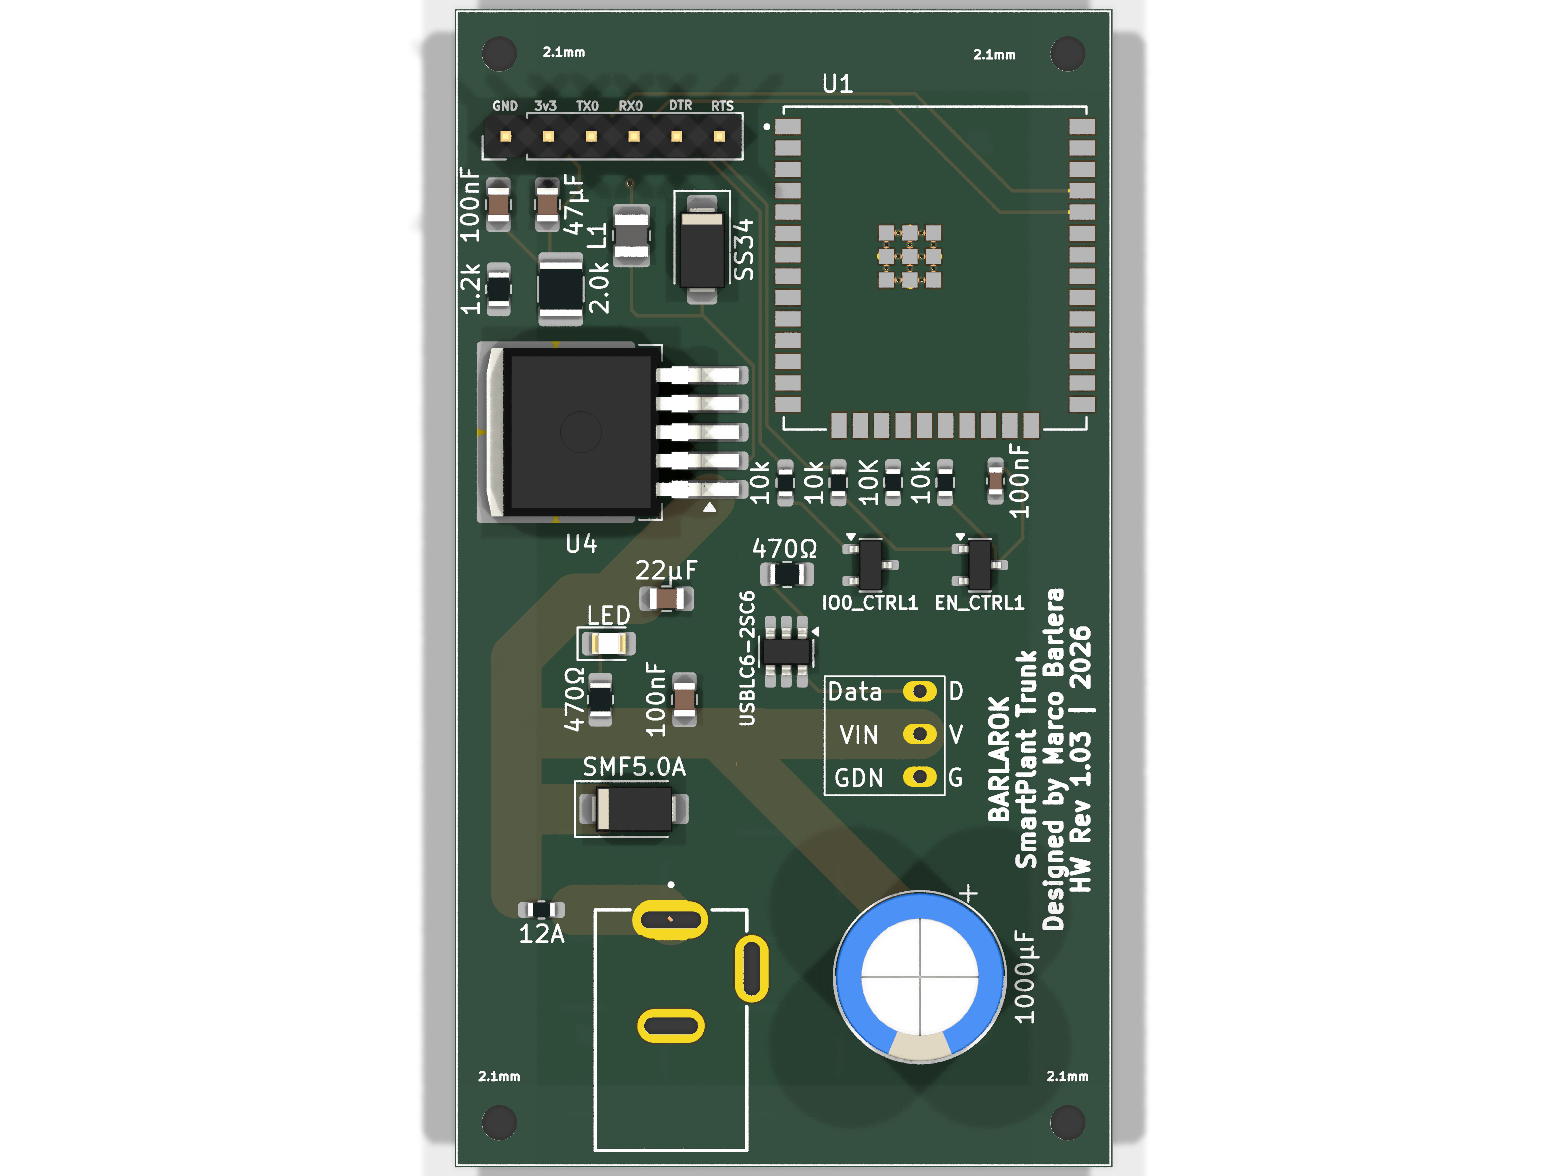
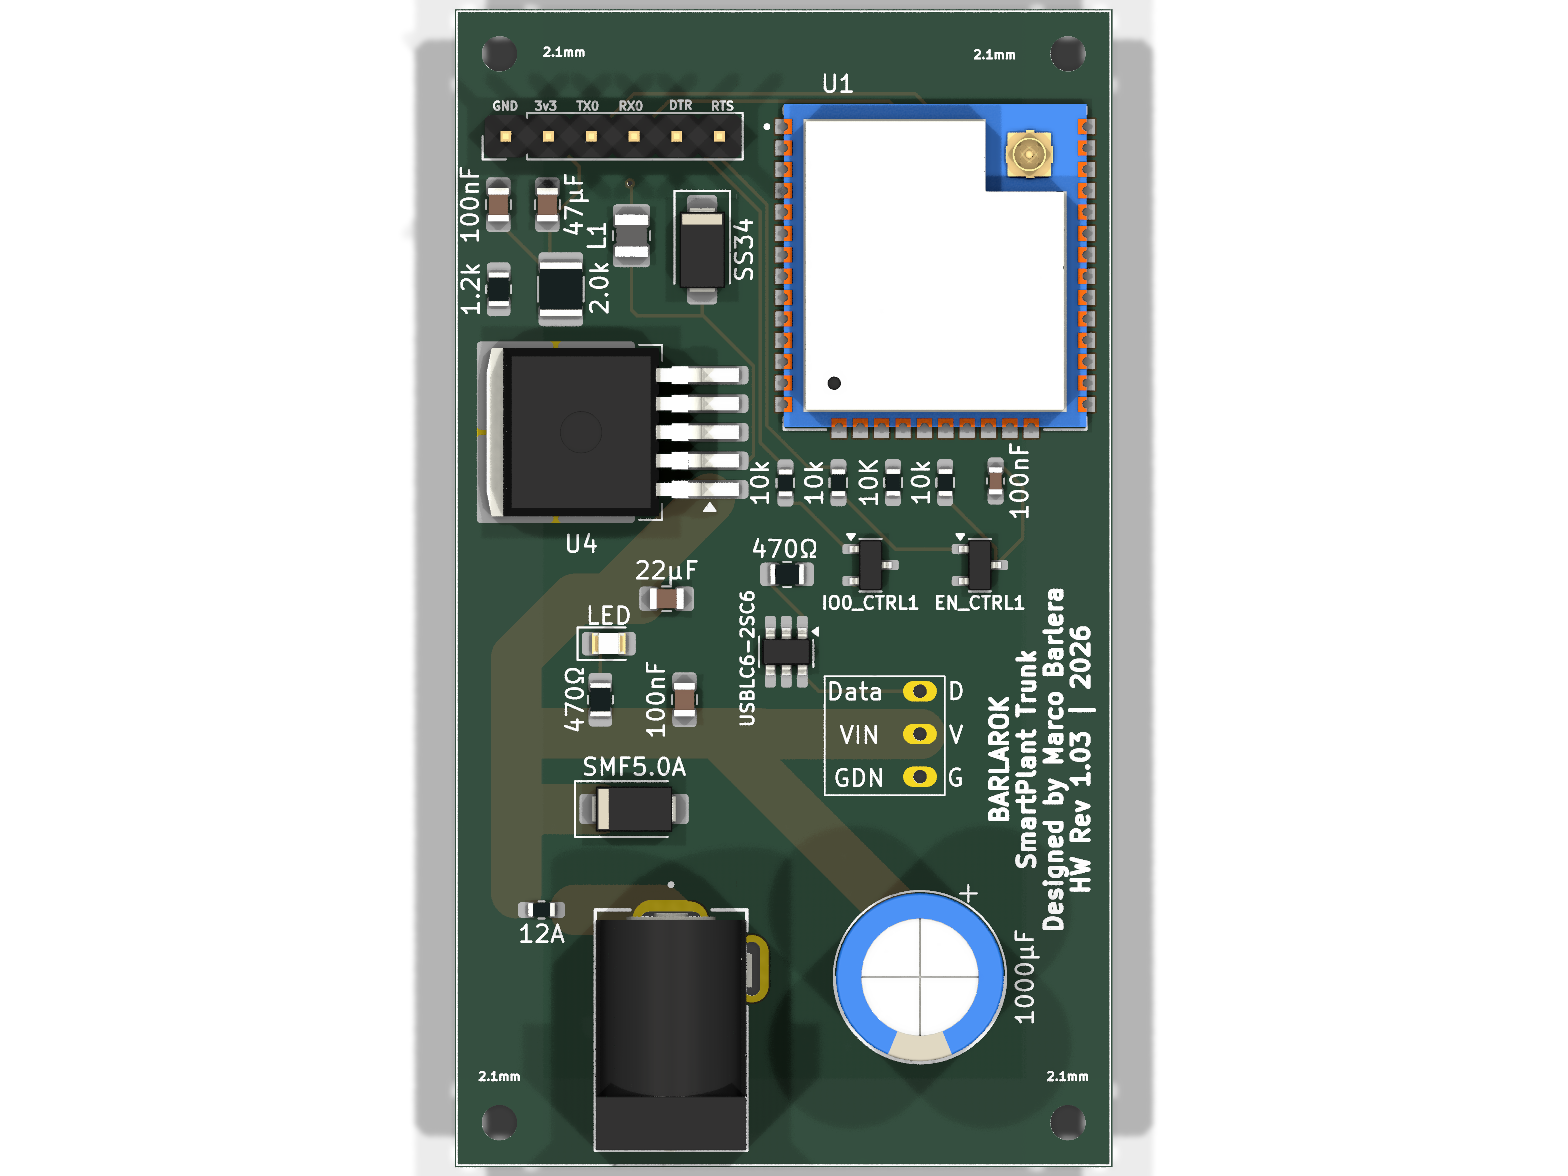
docs: complete PCB renders via a script that adds missing 3D models to temp copies
PCB/render/make_renders.py adds the ESP32 module, barrel jack and, for
Rev 2.0, hand-made polyfuse and PTS810 button models to temporary copies of
the boards, then renders top/bottom with kicad-cli. The board files are not
modified.

diff --git a/PCB/render/make_renders.py b/PCB/render/make_renders.py
@@ -1,0 +1,115 @@
+#!/usr/bin/env python3
+"""Regenerate the 3D renders of BaseChipOnly Rev 1.03 and Rev 2.0.
+
+Usage (from anywhere):  python3 PCB/render/make_renders.py
+
+Only the Python standard library and kicad-cli (KiCad 9) are needed; nothing
+is downloaded or installed. kicad-cli is looked up in PATH, then in
+/Applications/KiCad/KiCad.app/Contents/MacOS.
+
+What it does: each .kicad_pcb is copied into a temporary folder, the missing
+3D models (ESP32 module U1, barrel jack J1 and, on Rev 2.0 only, the 2920
+polyfuse and the two PTS810 buttons, the last two as simplified hand-made
+VRML models in PCB/render/models/) are added to the COPY, and kicad-cli
+renders top and bottom views into <board>/render/top.png and bottom.png
+(existing files are overwritten). The board files in the repo are never
+modified.
+"""
+import shutil
+import subprocess
+import sys
+import tempfile
+from pathlib import Path
+
+HERE = Path(__file__).resolve().parent
+PCB = HERE.parent
+MODELS = HERE / "models"
+STD = "${KICAD9_3DMODEL_DIR}/"
+KICAD_APP_BIN = "/Applications/KiCad/KiCad.app/Contents/MacOS/kicad-cli"
+
+# ref -> (model path, offset xyz, rotate xyz)
+COMMON = {
+    "U1": (STD + "RF_Module.3dshapes/ESP32-WROOM-32U.wrl", "0 0.155 0", "0 0 0"),
+    "J1": (STD + "Connector_BarrelJack.3dshapes/BarrelJack_Horizontal.wrl", "0 6.55 0", "0 0 -90"),
+}
+REV2_EXTRA = {
+    "Polyfuse1": (str(MODELS / "Fuse_2920_7451Metric.wrl"), "0 0 0", "0 0 0"),
+    "SW1": (str(MODELS / "SW_SPST_PTS810.wrl"), "0 0 0", "0 0 0"),
+    "SW2": (str(MODELS / "SW_SPST_PTS810.wrl"), "0 0 0", "0 0 0"),
+}
+BOARDS = [
+    ("Rev 1.03", PCB / "BaseChipOnly", COMMON),
+    ("Rev 2.0", PCB / "BaseChipOnly_rev2", {**COMMON, **REV2_EXTRA}),
+]
+
+
+def block_end(text, start):
+    """Index of the ')' closing the '(' at text[start] (balanced)."""
+    depth = 0
+    for j in range(start, len(text)):
+        c = text[j]
+        if c == "(":
+            depth += 1
+        elif c == ")":
+            depth -= 1
+            if depth == 0:
+                return j
+    raise ValueError("unbalanced parentheses")
+
+
+def set_model(text, ref, model, offset, rotate):
+    i = text.find('(property "Reference" "%s"' % ref)
+    if i < 0:
+        raise SystemExit("footprint %s not found" % ref)
+    s = text.rfind("(footprint", 0, i)
+    e = block_end(text, s)
+    blk = text[s:e]
+    while True:  # drop existing (model ...) blocks
+        k = blk.find("(model ")
+        if k < 0:
+            break
+        blk = blk[:k] + blk[block_end(blk, k) + 1:]
+    blk = blk.rstrip() + (
+        '\n\t\t(model "%s"\n\t\t\t(offset (xyz %s))\n\t\t\t(scale (xyz 1 1 1))'
+        "\n\t\t\t(rotate (xyz %s))\n\t\t)\n\t" % (model, offset, rotate)
+    )
+    return text[:s] + blk + text[e:]
+
+
+def find_cli():
+    cli = shutil.which("kicad-cli")
+    if cli:
+        return cli
+    if Path(KICAD_APP_BIN).exists():
+        return KICAD_APP_BIN
+    raise SystemExit("kicad-cli not found (PATH or %s)" % KICAD_APP_BIN)
+
+
+def main():
+    cli = find_cli()
+    print("kicad-cli:", cli)
+    with tempfile.TemporaryDirectory() as tmp:
+        for name, folder, models in BOARDS:
+            src = folder / "BaseChipOnly.kicad_pcb"
+            text = src.read_text()
+            for ref, (m, off, rot) in models.items():
+                print("  %s: model added to %s (temporary copy)" % (name, ref))
+                text = set_model(text, ref, m, off, rot)
+            tmp_pcb = Path(tmp) / (folder.name + ".kicad_pcb")
+            tmp_pcb.write_text(text)
+            out_dir = folder / "render"
+            out_dir.mkdir(exist_ok=True)
+            for side in ("top", "bottom"):
+                out = out_dir / (side + ".png")
+                print("  %s: rendering %s -> %s" % (name, side, out.relative_to(PCB.parent)))
+                subprocess.run(
+                    [cli, "pcb", "render", "--side", side, "--background", "transparent",
+                     "--quality", "high", "-w", "1600", "-h", "1200",
+                     "-o", str(out), str(tmp_pcb)],
+                    check=True,
+                )
+    print("Done. Board files untouched.")
+
+
+if __name__ == "__main__":
+    sys.exit(main())

diff --git a/PCB/README.md b/PCB/README.md
@@ -18,7 +18,9 @@ How BaseChipOnly works: [docs/base-chiponly-pcb.md](../docs/base-chiponly-pcb.md
 ## Regenerating the renders
 
 ```bash
-kicad-cli pcb render --side top --background transparent --quality high -w 1600 -h 1200 -o PCB/BaseChipOnly_rev2/render/top.png PCB/BaseChipOnly_rev2/BaseChipOnly.kicad_pcb
+python3 PCB/render/make_renders.py
 ```
 
-`kicad-cli` lives in `/Applications/KiCad/KiCad.app/Contents/MacOS` (KiCad 9); use `--side bottom` for the bottom view.
+The script regenerates top and bottom renders of BaseChipOnly Rev 1.03 and Rev 2.0 (standard library only; it finds `kicad-cli` in the PATH or in `/Applications/KiCad/KiCad.app/Contents/MacOS`).
+
+KiCad lacks some 3D models, so the script adds them to temporary copies of the boards: the ESP32 module and the barrel jack (both revisions) and, for Rev 2.0, the 2920 polyfuse and the PTS810 buttons as simplified hand-made models (`PCB/render/models/`). The board files are never modified.

diff --git a/README.md b/README.md
@@ -91,7 +91,7 @@ Liquid Glass redesign (iOS 26) of a WLED controller. mDNS discovery, WebSocket c
 </tr>
 </table>
 
-Bottom side: [Rev 1.03](PCB/BaseChipOnly/render/bottom.png) &middot; [Rev 2.0](PCB/BaseChipOnly_rev2/render/bottom.png). In the Rev 2.0 render the polyfuse and the two buttons (SW1/SW2) show only their pads, as KiCad has no 3D model for them.
+Bottom side: [Rev 1.03](PCB/BaseChipOnly/render/bottom.png) &middot; [Rev 2.0](PCB/BaseChipOnly_rev2/render/bottom.png). The renders also show the polyfuse and the two buttons (Rev 2.0) as simplified models, not the real components; regenerate them with `PCB/render/make_renders.py`.
 
 ---
 
